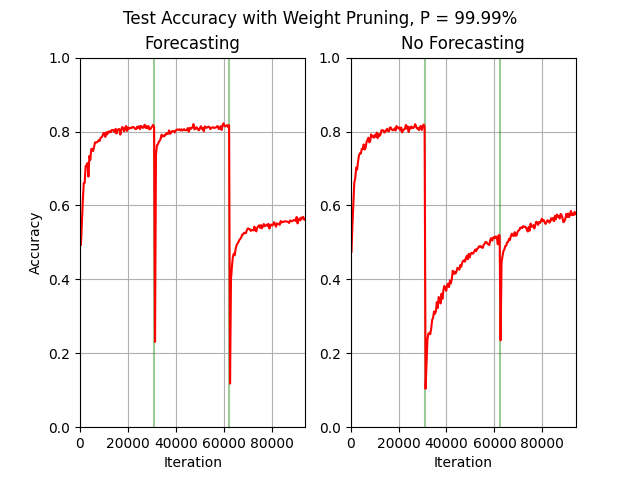
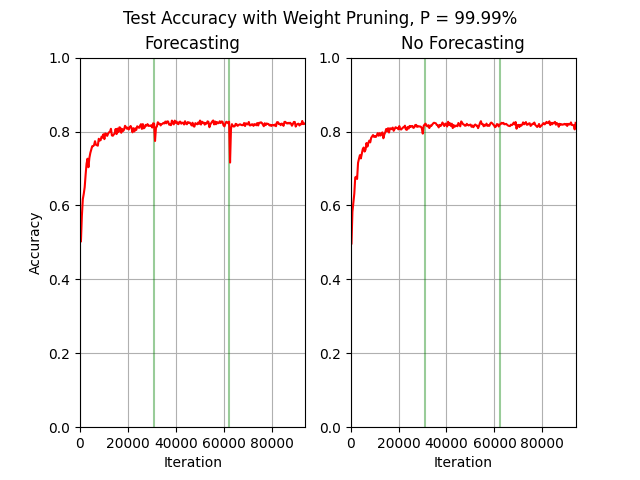
res

diff --git a/Resnet18_NF_Pruning.py b/Resnet18_NF_Pruning.py
@@ -27,7 +27,7 @@ train_transform = transforms.Compose([
 
 I_model = torch.load("../Allen_UROP/data/introspection.txt")
 
-cuda = torch.device("cuda:1")
+cuda = torch.device("cuda:5")
 
 epochs = 80
 batch = 128
@@ -156,21 +156,21 @@ for i in range (3):
       #  state_dict[item] = state_dict[item].to(cuda)*mask[item]
       #simple_model.load_state_dict(state_dict)
       counter += 1
-      for k in range(len(important_steps)):
-        if(important_steps[k] == counter):
-            print("Pruning...", k+1)
-            current = simple_model.state_dict()
-            current_convs = {}
-            for item in mask:
-                current_convs[item] = current[item]
-            (mask, num_zeroed) = prune(current_convs, k+1, .9929, num_zeroed, mask)
-            temp_state_dict = simple_model.state_dict()
-            mask_as_list = []
-            for item in mask:
-                temp_state_dict[item] = mask[item] * temp_state_dict[item].to(cuda)
-                temp_state_dict[item] = temp_state_dict[item].to(cuda)
-                mask_as_list.append(mask[item])
-            simple_model.load_state_dict(temp_state_dict)
+      #for k in range(len(important_steps)):
+        #if(important_steps[k] == counter):
+            #print("Pruning...", k+1)
+            #current = simple_model.state_dict()
+            #current_convs = {}
+            #for item in mask:
+                #current_convs[item] = current[item]
+            #(mask, num_zeroed) = prune(current_convs, k+1, .8349, num_zeroed, mask)
+            #temp_state_dict = simple_model.state_dict()
+            #mask_as_list = []
+            #for item in mask:
+                #temp_state_dict[item] = mask[item] * temp_state_dict[item].to(cuda)
+                #temp_state_dict[item] = temp_state_dict[item].to(cuda)
+                #mask_as_list.append(mask[item])
+            #simple_model.load_state_dict(temp_state_dict)
     testloader = torch.utils.data.DataLoader(cifar10_test, batch_size = 10000, shuffle = True)
     iter_test = iter(testloader)
     test_data, test_labels = iter_test.next()

diff --git a/Resnet18_F_Pruning.py b/Resnet18_F_Pruning.py
@@ -5,7 +5,7 @@ from torch import nn, optim
 import torchvision.transforms as transforms
 I_model = torch.load("../Allen_UROP/data/introspection.txt")
 
-cuda = torch.device("cuda:0")
+cuda = torch.device("cuda:2")
 
 
 normalize = transforms.Normalize(
@@ -180,7 +180,9 @@ for i in range (3):
             print("Pruning...", k+1)
             acceleration = I_model(torch.transpose(weight_holder[4*k:4*k+4, :], 0, 1)*1000)/1000
             accelerate_dict = vec_to_dict(acceleration, mask)
-            (mask, num_zeroed) = prune(accelerate_dict, k+1, .9929, num_zeroed, mask)
+            for item in accelerate_dict:
+                accelerate_dict[item] = accelerate_dict[item].to(cuda)*mask[item]
+            (mask, num_zeroed) = prune(accelerate_dict, k+1, .8349, num_zeroed, mask)
             temp_state_dict = simple_model.state_dict()
             mask_as_list = []
             for item in mask:
@@ -198,7 +200,17 @@ for i in range (3):
     training_iterations.append(counter)
     accuracy.append(correct/10000)
     print("Epoch", m, "acc", correct/10000)
-
+thing = 0
+print(num_zeroed)
+idk = simple_model.state_dict()
+for item in mask:
+    hehe = torch.reshape(idk[item], (-1,))
+    for i in range(hehe.size()[0]):
+        if(hehe[i] == 0):
+            thing += 1
+            if(thing % 1000000 == 0):
+                print(thing)
+print(thing)
 
 
         
